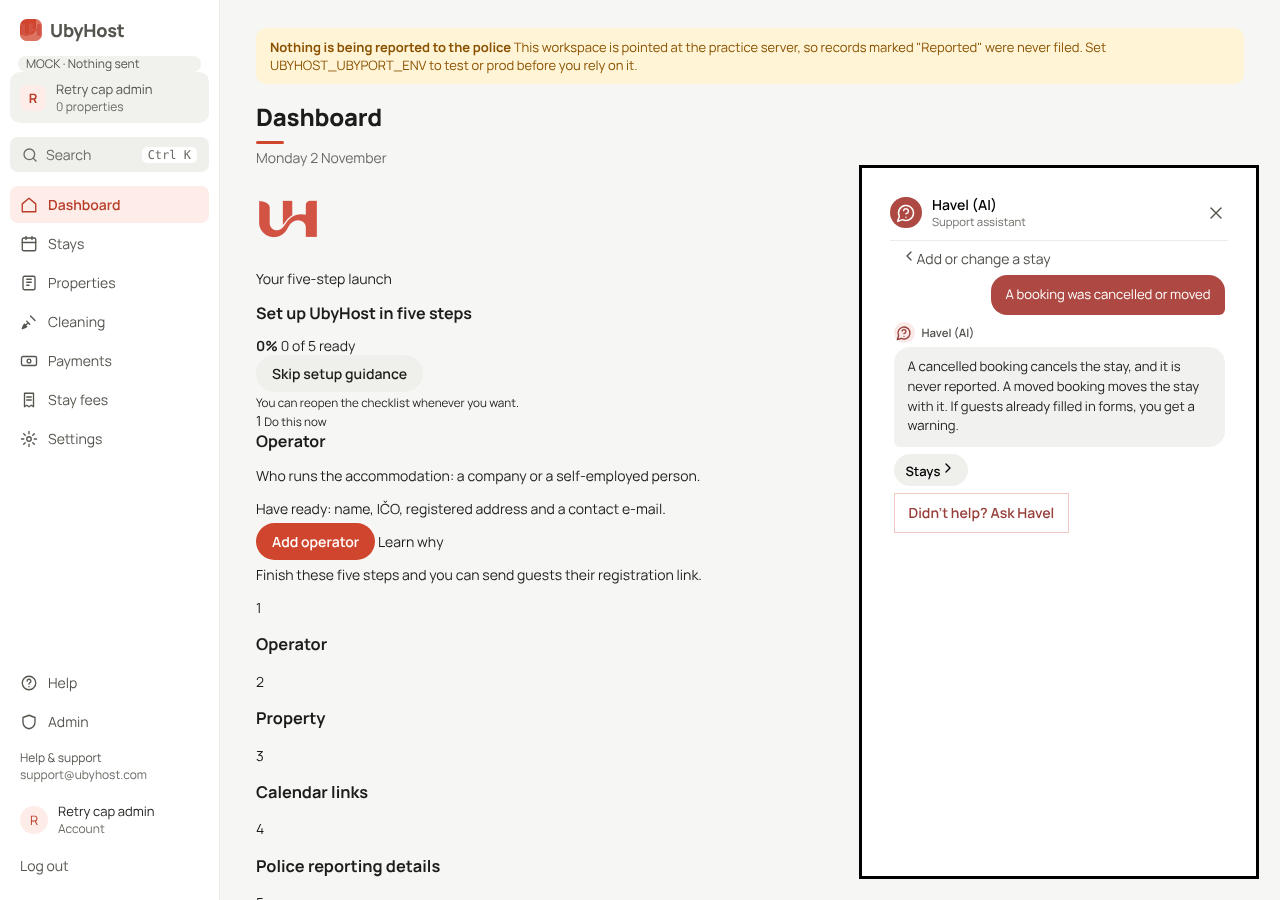
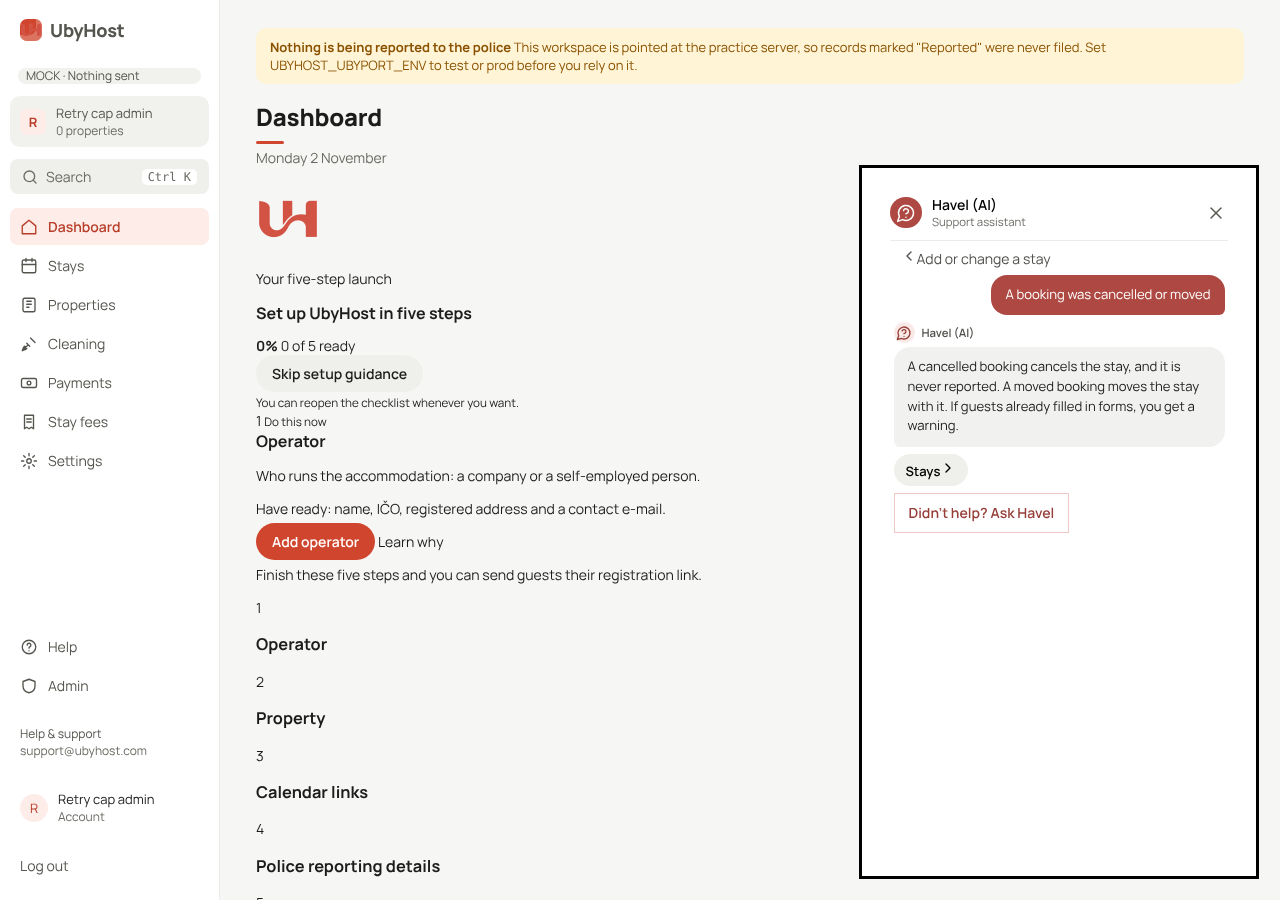
Fix tests after merging main: old-shell page is /guide, housebook/stay_fees mockup baseline
Claude-Session: https://claude.ai/code/session_01Cjmb7PdUMpDoeM5PUQzYnL

Changed region(s): [[0.0, 0.0622, 0.125, 0.5289], [0.0, 0.7156, 0.125, 0.9333]]

diff --git a/App/tests/test_host_wide_geometry_browser.py b/App/tests/test_host_wide_geometry_browser.py
@@ -832,8 +832,8 @@ def test_collapsed_sidebar_keeps_dashboard_and_stays_lanes_aligned(wide_host, wi
             }])
             page = context.new_page()
             for key, path, selector in (
-                # 0720c: v2 `/` has no sidebar collapse button; the collapse case runs on /invoices (old shell, 0785a).
-                ("invoices", "/invoices", ".ui-table-wrap, .ui-empty"),
+                # 0720c/0852: /guide is the old shell with a collapse button; it has no centred lane, so only overflow is checked there.
+                ("guide", "/guide", "main"),
                 ("stays", "/reservations", ".stays-desk"),
             ):
                 response = page.goto(f"{wide_base}{path}?lang={lang}")
@@ -858,6 +858,8 @@ def test_collapsed_sidebar_keeps_dashboard_and_stays_lanes_aligned(wide_host, wi
                         page.evaluate("window.scrollTo(0, 0)")
                 geometry = _capture_geometry(page, selector)
                 assert geometry["viewport"]["scrollWidth"] <= 1920, geometry["viewport"]
+                if key == "guide":
+                    continue
                 for edge in ("left", "right"):
                     assert abs(geometry["pageHeader"][edge] - geometry["result"][edge]) <= 2, geometry
                 assert abs(geometry["title"]["left"] - geometry["result"]["left"]) <= 2, geometry
@@ -965,8 +967,8 @@ def _rail_context(browser, wide_host, wide_base, width, collapsed, **options):
     return context
 
 
-# 0720c: the rail cases run on /invoices (old shell, no `v2` set, 0785a); v2 `/` has no `button[data-sidebar-collapse]`.
-def _rail_page(context, wide_base, path="/invoices"):
+# 0720c: the rail cases run on /guide (old shell, no `v2` set, 0785a); v2 `/` has no `button[data-sidebar-collapse]`.
+def _rail_page(context, wide_base, path="/guide"):
     page = context.new_page()
     response = page.goto(f"{wide_base}{path}")
     assert response and response.status == 200

diff --git a/App/tests/v2_mockup.py b/App/tests/v2_mockup.py
@@ -48,6 +48,7 @@ SELECTOR_OVERRIDES = {
     ".guest-card": {"border-top-left-radius": "12px", "border-bottom-color": "rgb(229, 229, 229)"},
     ".stay-dates": {"border-top-left-radius": "12px", "padding-top": "16px", "padding-right": "20px", "padding-bottom": "16px", "padding-left": "20px", "border-bottom-color": "rgb(229, 229, 229)"},
     # PR #725: Airbnb redesign, per page (the same selector differs between mockup views)
+    "stay_fees:main .card": {"padding-top": "16px", "padding-right": "16px", "padding-bottom": "16px", "padding-left": "16px"},  # PR #725: Airbnb card padding
     "stay:main .card": {"padding-top": "16px", "padding-right": "20px", "padding-bottom": "16px", "padding-left": "20px", "border-bottom-color": "rgb(229, 229, 229)"},
     "properties:main table th": {"padding-left": "16px"},
     "properties:main table td": {"padding-left": "16px", "border-bottom-color": "rgb(229, 229, 229)"},
@@ -83,7 +84,10 @@ BOX_OVERRIDES = {
     "housebook:.mh .big, .head h1@390": {"width": "167.469px"},
     "housebook:.stay .in b@320": {"width": "119.422px"},
     "housebook:.stay .in b@390": {"width": "119.422px"},
-    "housebook:.stay .in small@390": {"width": "210px"},
+    "housebook:.card.stay@320": {"height": "135.984px"},
+    "housebook:.card.stay@390": {"height": "116.984px"},
+    "housebook:.stay .in small@320": {"height": "57px"},
+    "housebook:.stay .in small@390": {"width": "208px", "height": "38px"},  # PR #725: the housebook row text wraps
     # text-dependent: app copy vs phone v2 mockup demo copy (0740)
     ".prop .in b@320": {"width": "93.0469px"},
     ".prop .in b@390": {"width": "93.0469px"},

diff --git a/App/tests/test_havel_browser.py b/App/tests/test_havel_browser.py
@@ -136,7 +136,7 @@ def test_phone_launcher_and_sheet(origin):
         # Wait for the close to finish before leaving the page, or Havel reopens on /settings.
         page.wait_for_selector("#havel-sheet[open]", state="detached")
         # 0720: v2 phone has no More sheet (the Menu tab replaces it); this tail checks the old shell's More menu on /invoices (0852: /payments is v2 since PR #725).
-        page.goto(origin[0] + "/invoices")
+        page.goto(origin[0] + "/guide")
         page.locator("[data-sheet-open='more-sheet']").click()
         page.locator("#more-sheet[open] [data-havel-more]").click()
         page.locator("#havel-sheet[open]").wait_for()

diff --git a/App/tests/test_signed_in_chrome.py b/App/tests/test_signed_in_chrome.py
@@ -130,7 +130,7 @@ def test_the_support_line_names_the_configured_operator_address(host_with_proper
 
 
 def test_the_support_line_is_not_part_of_the_legal_link_row(host_with_property):
-    footer = _sidebar(host_with_property.get("/stay-fees?lang=en").text)  # old-shell rail; v2 pages use .side
+    footer = _sidebar(host_with_property.get("/guide?lang=en").text)  # old-shell rail; v2 pages use .side
     # Support lives in the account disclosure, keeping the default rail short.
     account = re.search(r'<details class="host-account".*?</details>', footer, re.S).group(0)
     assert 'mailto:' in account

diff --git a/App/tests/test_design_guardrails_browser.py b/App/tests/test_design_guardrails_browser.py
@@ -444,7 +444,7 @@ def test_sidebar_search_has_a_border(wide_host, wide_base):
         context = browser.new_context(viewport={"width": 1280, "height": 1000})
         context.add_cookies([{"name": auth.SESSION_COOKIE, "value": cookie, "url": wide_base + "/"}])
         page = context.new_page()
-        response = page.goto(f"{wide_base}/invoices?lang=en")
+        response = page.goto(f"{wide_base}/guide?lang=en")
         assert response and response.status < 400, f"HTTP {response.status if response else 'none'}"
         _wait_for_host_layout(page)
         _dismiss_optional_security_prompt(page)

diff --git a/App/tests/test_onboarding_followup_browser.py b/App/tests/test_onboarding_followup_browser.py
@@ -122,7 +122,7 @@ def test_rows_hover_as_one_surface_and_use_compact_menus(stay_actions_host, stay
 
         if width >= 1440:
             # Old shell: the collapsible sidebar account lives on /settings; v2 Overview has no sidebar account.
-            page.goto(f"{base}/invoices?lang={lang}")
+            page.goto(f"{base}/guide?lang={lang}")
             _ready(page)
             page.evaluate("document.body.classList.add('sidebar-collapsed')")
             account = page.locator("[data-host-account] > summary")
